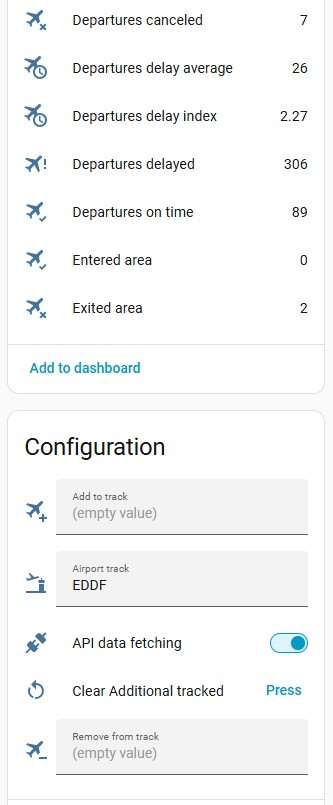
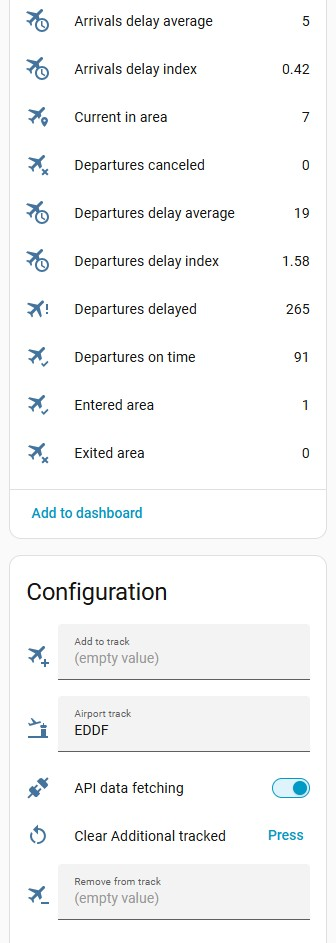
new version

diff --git a/README.md b/README.md
@@ -59,15 +59,15 @@ It allows you:
   </tr>
   <tr>
     <td width="50%" valign="top">
-      <img src="https://raw.githubusercontent.com/AlexandrErohin/home-assistant-flightradar24/master/docs/media/lovelace.png" alt="Flightradar24 lovelace card" width="100%">
+      <img src="https://raw.githubusercontent.com/AlexandrErohin/home-assistant-flightradar24/master/docs/media/sensors1.jpg" alt="Flightradar24 sensors" width="100%">
     </td>
     <td width="50%" valign="top">
-      <img src="https://raw.githubusercontent.com/AlexandrErohin/home-assistant-flightradar24/master/docs/media/sensors1.jpg" alt="Flightradar24 sensors" width="100%">
+      <img src="https://raw.githubusercontent.com/AlexandrErohin/home-assistant-flightradar24/master/docs/media/sensors2.jpg" alt="Flightradar24 sensors" width="100%">
     </td>
   </tr>
   <tr>
     <td width="50%" valign="top">
-      <img src="https://raw.githubusercontent.com/AlexandrErohin/home-assistant-flightradar24/master/docs/media/sensors2.jpg" alt="Flightradar24 sensors" width="100%">
+      <img src="https://raw.githubusercontent.com/AlexandrErohin/home-assistant-flightradar24/master/docs/media/lovelace.png" alt="Flightradar24 lovelace card" width="100%">
     </td>
     <td width="50%" valign="top">
       <img src="https://raw.githubusercontent.com/AlexandrErohin/home-assistant-flightradar24/master/docs/media/airport_departures.jpg" alt="Airport departures board" width="100%">

diff --git a/CHANGELOG.md b/CHANGELOG.md
@@ -2,7 +2,7 @@
 
 All notable changes to this project are documented in this file.
 
-## [2.7.0] - 2026-11-25
+## [2.7.0] - 2026-11-26
 
 ### Changed
 
